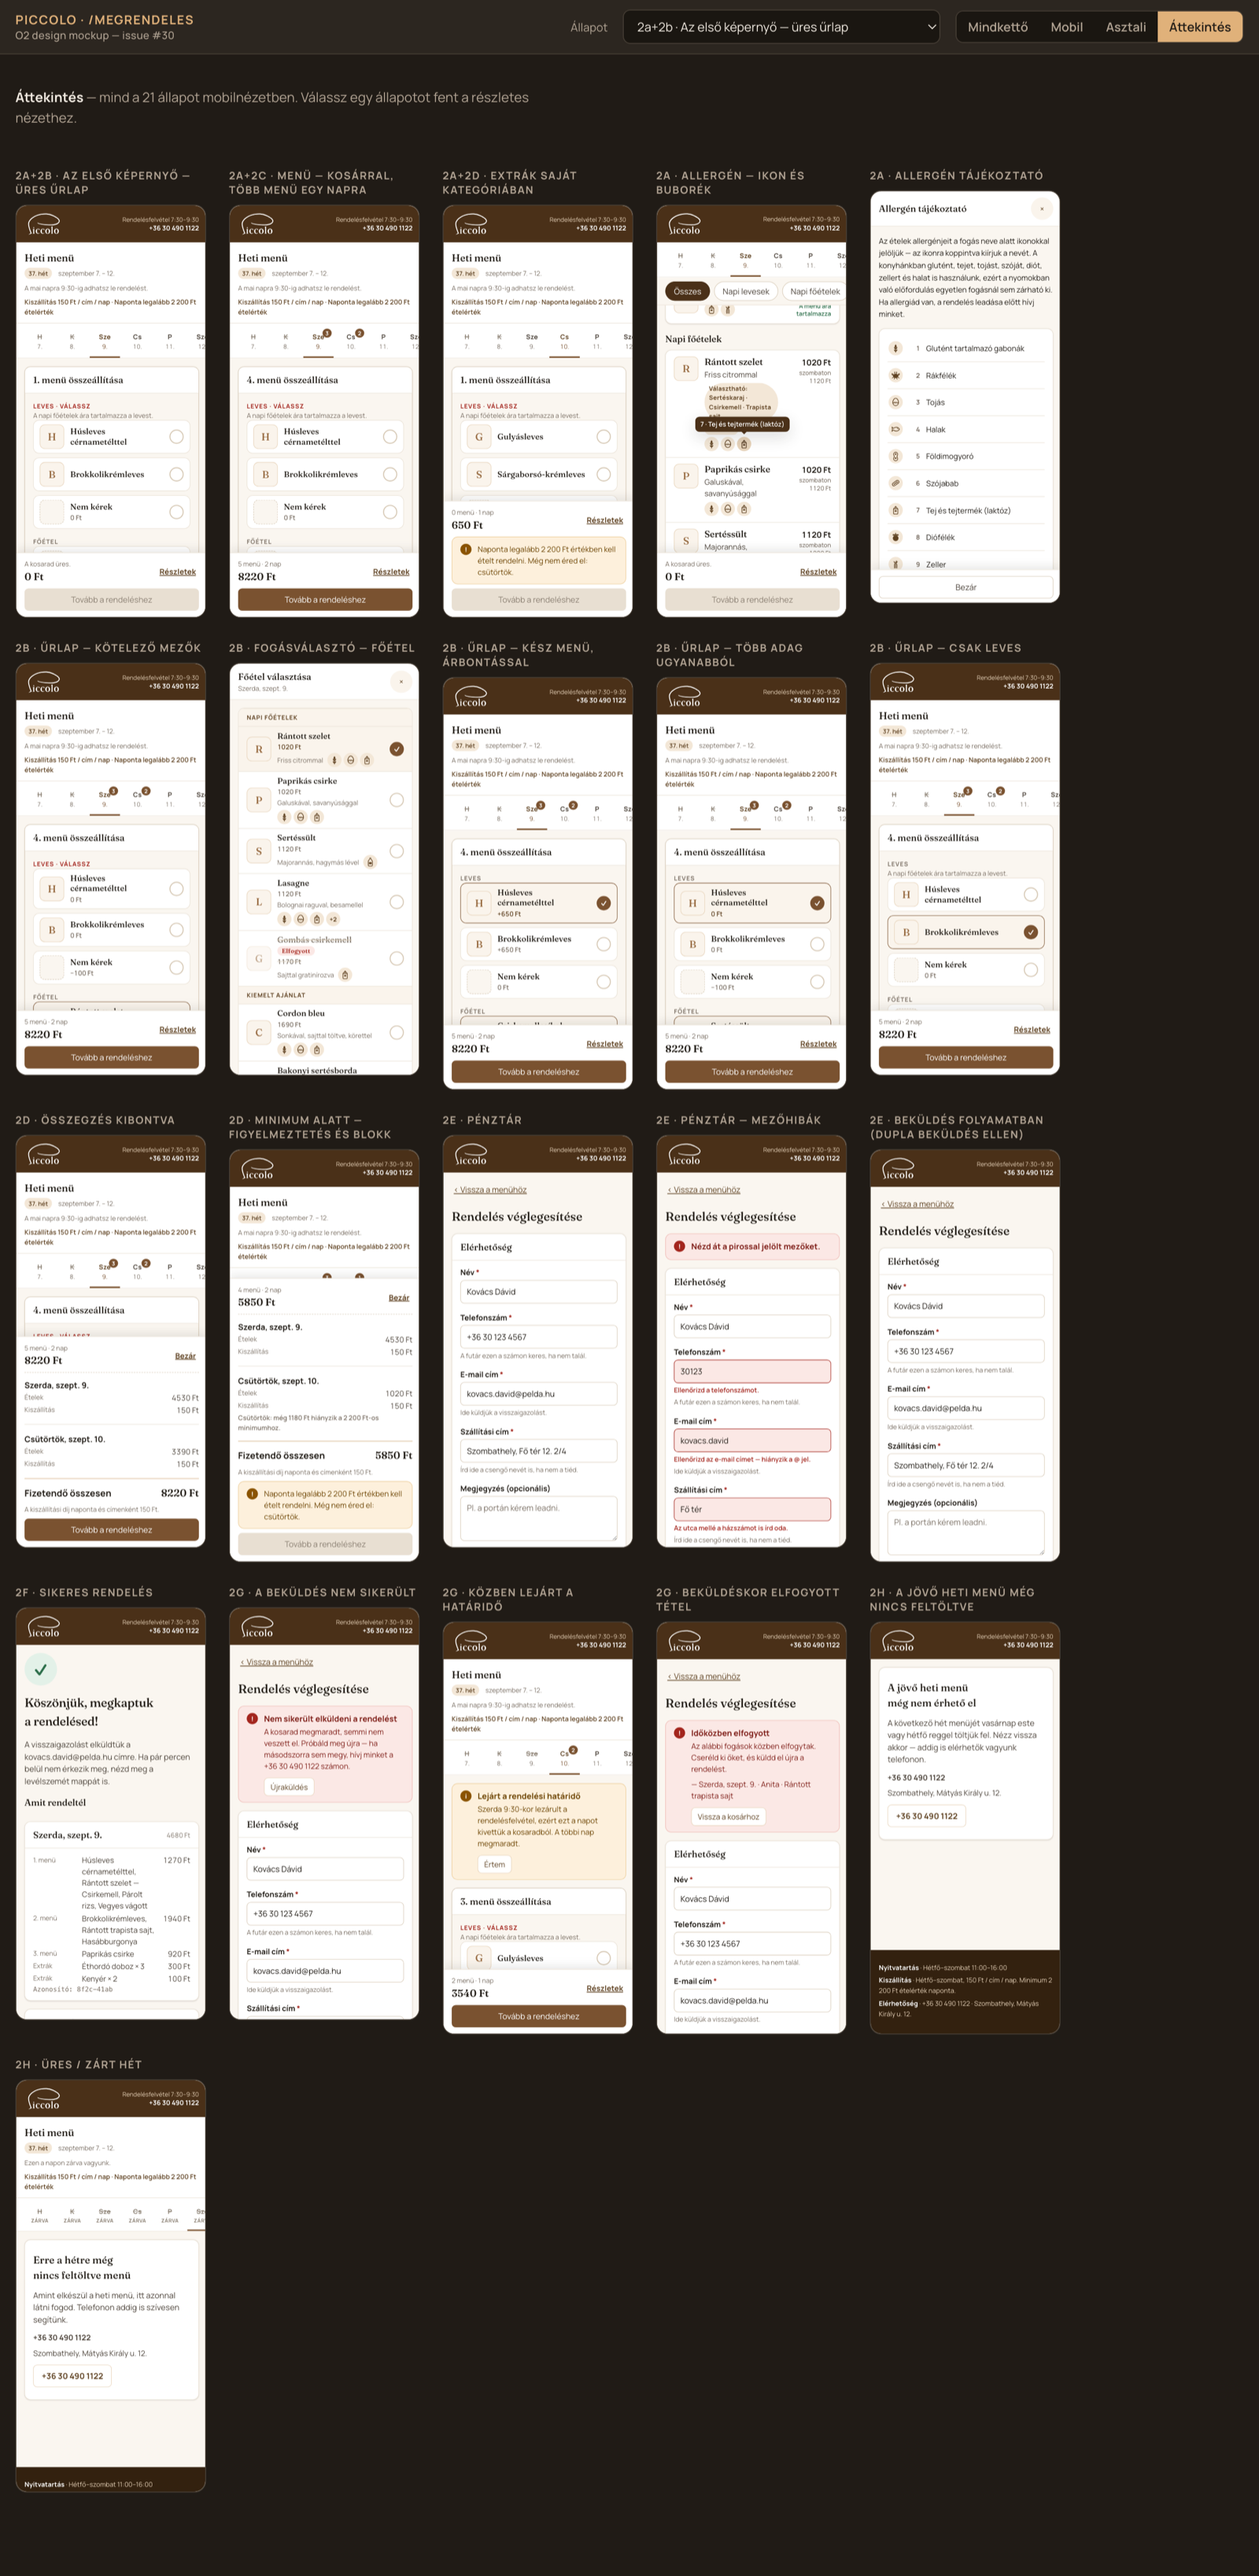
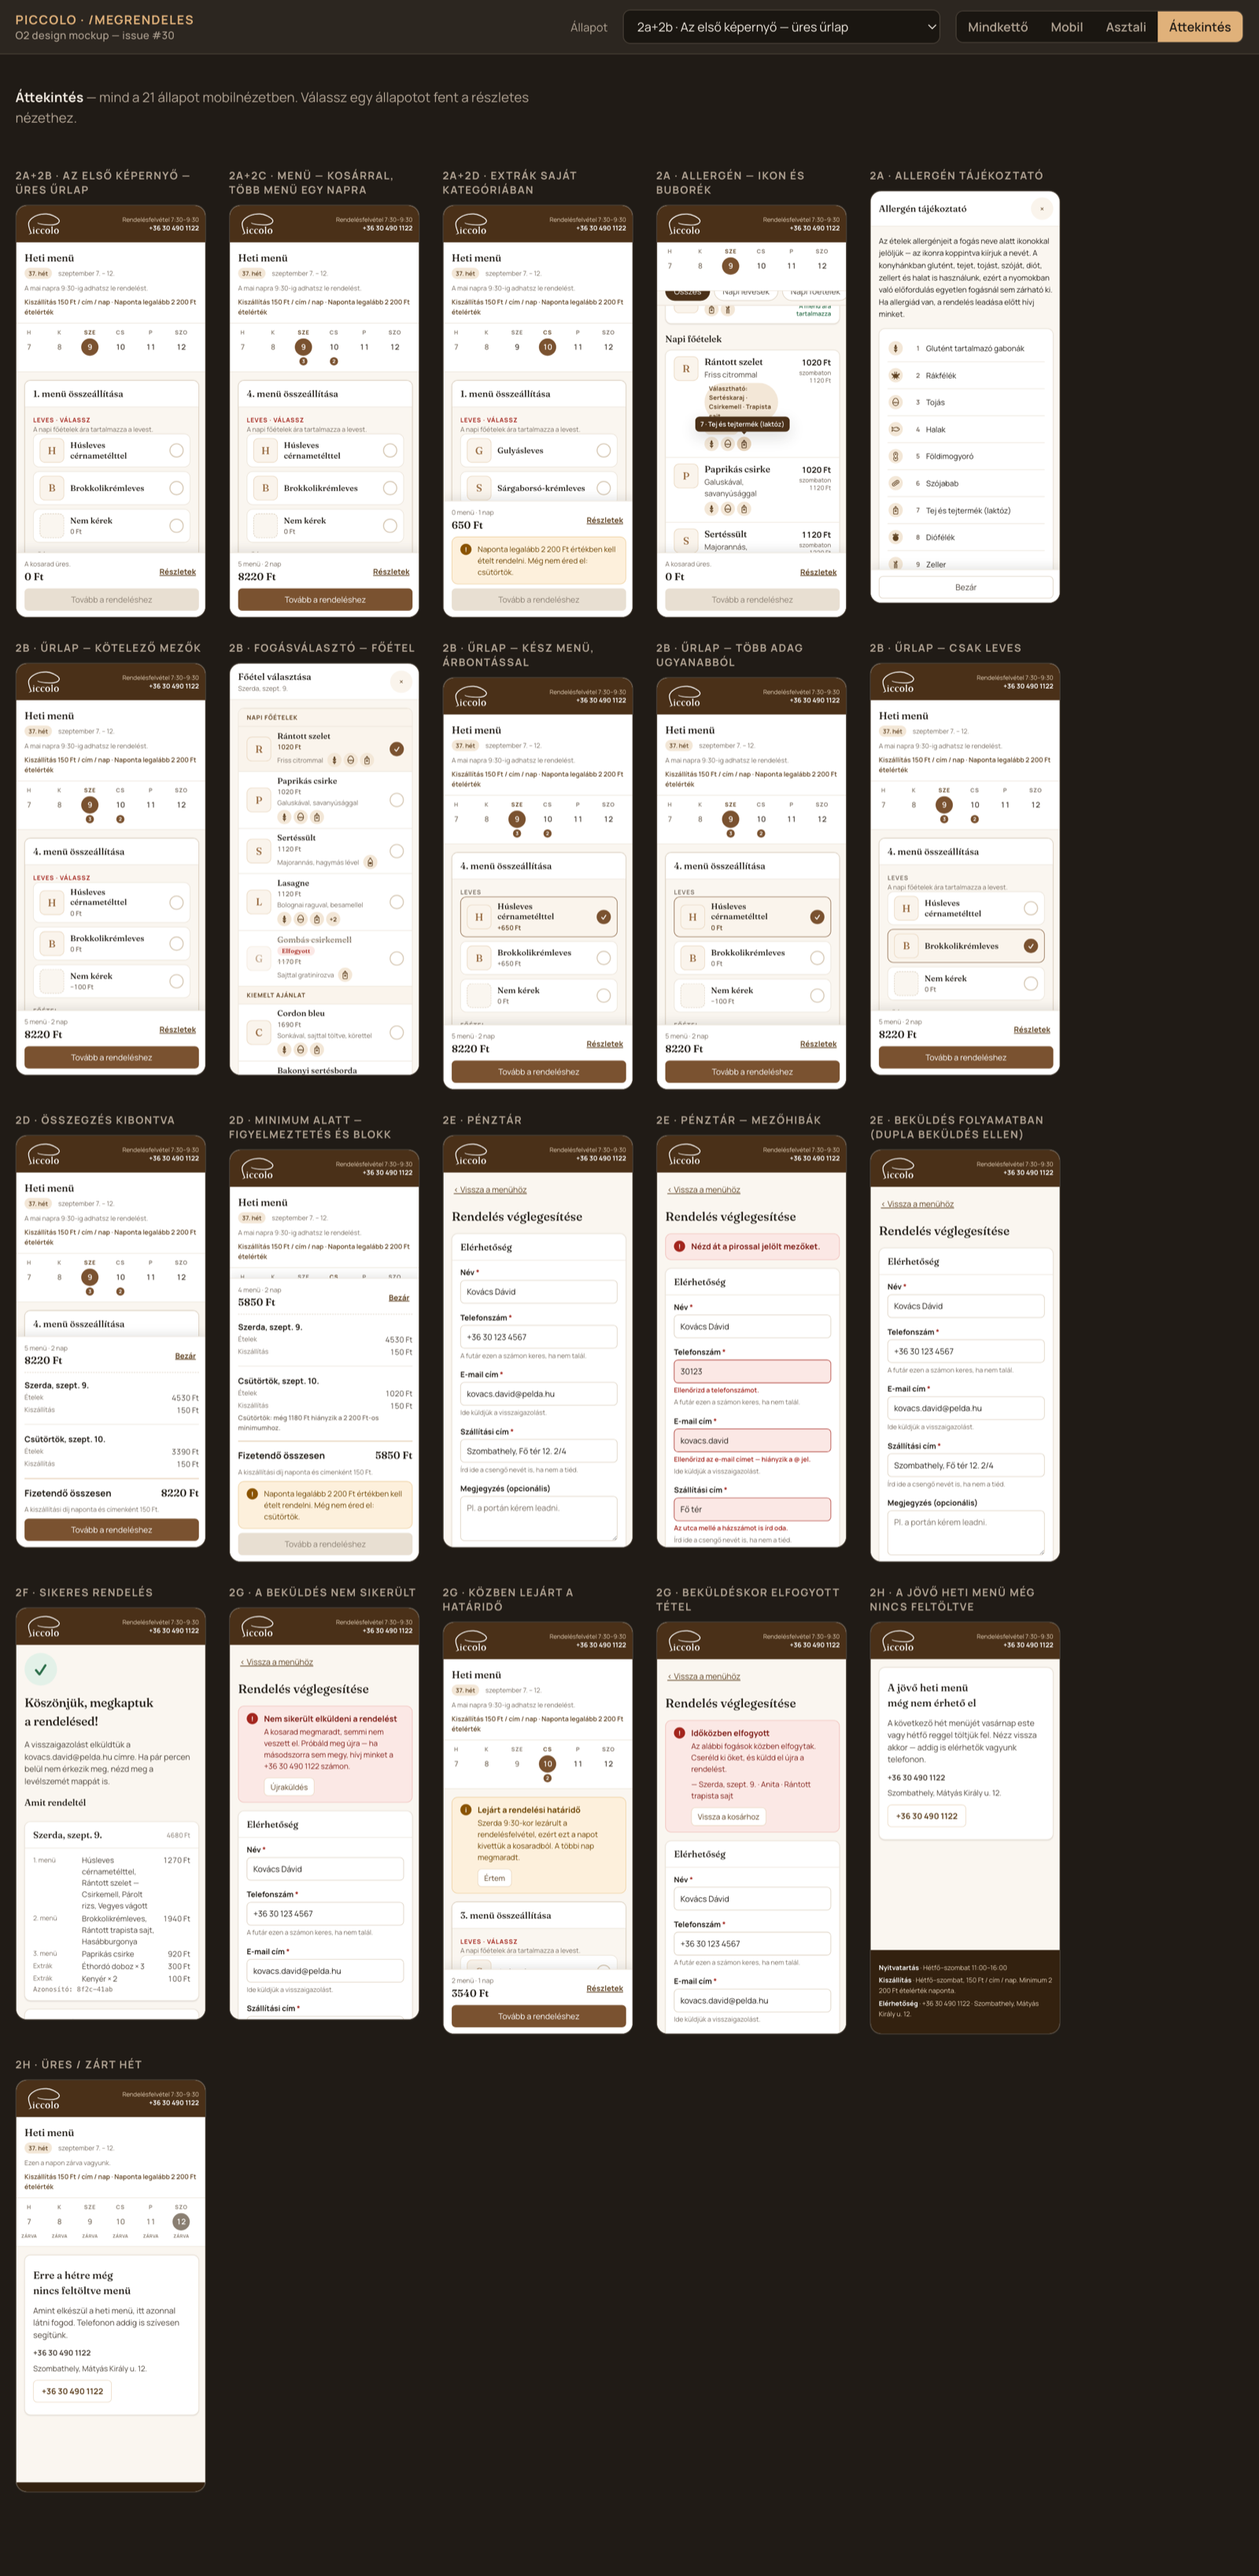
O2: the week strip fits the phone, iOS-calendar style
It was a flex row of 60 px minimum-width tabs with padding — about 530 px of
content in a 375 px viewport, so Saturday sat half off the right edge. On a
mobile-first page that is the worst thing the strip can do: it hides the very
days the guest is choosing between, and a clipped last day reads as a rendering
fault rather than an invitation to swipe.

Six days now divide the width as an even grid, no scrolling, 53 px a column even
on a 320 px phone. The shape follows the iOS calendar header: weekday caps, the
date in a circle, a mark below. The circle replaces the underline — same "you
are here" signal, less vertical space — and it gives the closed state somewhere
to live: an ink circle rather than brand, so the day you are looking at is
marked without implying you can order on it. The mark slot is always rendered so
the circles share a baseline, and it carries either the cart count or ZÁRVA.

Desktop keeps the same shape at 84 px columns, left-aligned, rather than
stretching six tabs across 1280 px.

diff --git a/docs/design/megrendeles/mockup.html b/docs/design/megrendeles/mockup.html
@@ -346,80 +346,96 @@
         font-weight: 600;
         font-size: var(--t-xs);
       }
+      /* The week strip reads like the iOS calendar header: weekday caps, the date in
+         a circle, an event mark below. Six days divide the width evenly, so nothing
+         scrolls and nothing is cut off at the right edge — a strip you have to swipe
+         hides the very days you are deciding between. */
       .daybar {
         position: sticky;
         top: 72px;
         z-index: 5;
         background: var(--paper);
         border-bottom: 1px solid var(--line);
-        overflow-x: auto;
-        scrollbar-width: none;
-      }
-      .daybar::-webkit-scrollbar {
-        display: none;
       }
       .daybar ul {
-        display: flex;
-        gap: var(--s-1);
-        padding: var(--s-2) var(--s-4) 0;
-        min-width: max-content;
+        display: grid;
+        grid-template-columns: repeat(var(--daycols, 6), minmax(0, 1fr));
+        padding: var(--s-2);
       }
       .day {
-        position: relative;
-        min-width: 60px;
-        min-height: var(--tap);
-        padding: var(--s-2) var(--s-3) 10px;
-        border: 0;
-        background: none;
-        border-bottom: 3px solid transparent;
-        color: var(--ink-700);
         display: flex;
         flex-direction: column;
         align-items: center;
-        gap: 1px;
-        border-radius: var(--radius-sm) var(--radius-sm) 0 0;
+        gap: 3px;
+        min-height: var(--tap);
+        padding: 2px 0 4px;
+        border: 0;
+        background: none;
+        color: var(--ink-700);
+        border-radius: var(--radius-sm);
       }
       .day .dow {
-        font-size: var(--t-sm);
+        font-size: 11px;
         font-weight: 700;
-        letter-spacing: 0.02em;
-      }
-      .day .dnum {
-        font-size: var(--t-xs);
+        letter-spacing: 0.06em;
+        text-transform: uppercase;
         color: var(--ink-500);
       }
-      .day[aria-selected='true'] {
-        color: var(--brand-700);
-        border-bottom-color: var(--brand-600);
+      .day .dnum {
+        width: 34px;
+        height: 34px;
+        border-radius: 50%;
+        display: grid;
+        place-items: center;
+        font-size: var(--t-md);
+        font-weight: 600;
+        line-height: 1;
+      }
+      /* The mark slot is always present, badge or not, so the circles stay on one
+         baseline across the week. */
+      .day .dmark {
+        display: grid;
+        place-items: center;
+        min-height: 16px;
       }
       .day[aria-selected='true'] .dnum {
-        color: var(--brand-600);
+        background: var(--brand-600);
+        color: #fff;
+      }
+      .day[aria-selected='true'] .dow {
+        color: var(--brand-700);
+      }
+      button.day:not([aria-selected='true']):not([disabled]):hover .dnum {
+        background: var(--brand-50);
       }
       .day[disabled] {
-        color: var(--ink-400);
         cursor: not-allowed;
       }
-      .day[disabled] .dow {
-        text-decoration: line-through;
-        text-decoration-thickness: 1px;
+      /* A closed day you are looking at still gets its circle — it says "you are
+         here" — but in ink, not brand, so it does not promise you can order. */
+      .day[disabled][aria-selected='true'] .dnum {
+        background: var(--ink-400);
+        color: #fff;
+      }
+      .day[disabled] .dow,
+      .day[disabled] .dnum {
+        color: var(--ink-400);
       }
       .day .dbadge {
-        position: absolute;
-        top: 2px;
-        right: 4px;
-        min-width: 18px;
-        height: 18px;
-        padding: 0 5px;
+        display: grid;
+        place-items: center;
+        min-width: 16px;
+        height: 16px;
+        padding: 0 4px;
         border-radius: 999px;
         background: var(--brand-600);
         color: #fff;
-        font-size: 11px;
+        font-size: 10px;
         font-weight: 700;
-        line-height: 18px;
-        text-align: center;
+        line-height: 1;
       }
       .day .dclosed {
-        font-size: 10px;
+        font-size: 9px;
         font-weight: 700;
         letter-spacing: 0.04em;
         text-transform: uppercase;
@@ -1827,17 +1843,14 @@
           padding: 0 var(--s-8);
         }
         .daybar ul {
+          grid-template-columns: repeat(var(--daycols, 6), 84px);
+          justify-content: start;
           padding-inline: 0;
-          gap: var(--s-2);
         }
-        .day {
-          min-width: 104px;
-          flex-direction: row;
-          gap: var(--s-2);
-          align-items: baseline;
-        }
-        .day .dbadge {
-          position: static;
+        .day .dnum {
+          width: 40px;
+          height: 40px;
+          font-size: var(--t-lg);
         }
         .screen {
           display: grid;
@@ -2779,17 +2792,24 @@
               : '') +
             '><span class="dow">' +
             esc(dayShort(d.date)) +
-            '</span>' +
-            (state === 'closed'
-              ? '<span class="dclosed">' + esc(S.days.closed) + '</span>'
-              : '<span class="dnum num">' + esc(dateNum(d.date)) + '.</span>') +
+            '</span><span class="dnum num">' +
+            esc(dateNum(d.date)) +
+            '</span><span class="dmark">' +
             (n
               ? '<span class="dbadge num" title="' + esc(S.days.badgeTitle(n)) + '">' + n + '</span>'
-              : '') +
-            '</button></li>'
+              : state === 'closed'
+                ? '<span class="dclosed">' + esc(S.days.closed) + '</span>'
+                : '') +
+            '</span></button></li>'
           );
         }).join('');
-        return '<nav class="daybar"><ul role="tablist">' + items + '</ul></nav>';
+        return (
+          '<nav class="daybar"><ul role="tablist" style="--daycols: ' +
+          DAYS.length +
+          '">' +
+          items +
+          '</ul></nav>'
+        );
       }
 
       function Banner(b) {

diff --git a/docs/design/megrendeles/README.md b/docs/design/megrendeles/README.md
@@ -110,7 +110,7 @@ What O6/O7 need to build, in the order they appear:
 |---|---|
 | `Masthead` | logo, intake window, tap-to-call number |
 | `WeekBar` | week number pill, date range, cutoff sentence |
-| `DayRail` | six tabs; disabled for past days and holidays; cart-count badge; horizontally scrollable |
+| `DayRail` | the week strip, built like the iOS calendar header: weekday caps, the date in a circle, a mark below. Six equal columns fill the width — no horizontal scrolling. Filled brand circle for the selected day, ink circle when that day is closed, cart-count badge or `ZÁRVA` in the mark slot |
 | `Banner` | info / warn / danger / ok; title, body, optional list, optional action |
 | `ChipRail` | sticky category chips that jump to a section |
 | `DishList` + `Dish` | tile, name, description, price (with the Saturday price when it differs), allergen chips, tags (`Elfogyott`, `Választható`, `Körettel`); the whole row is the tap target |
@@ -226,6 +226,21 @@ Two consequences worth knowing. A guest ordering **soup alone** does not see its
 price box below totals it — acceptable, because the price box is on the same screen and itemises it.
 And the soup is the one block whose rows can lack an amount, which is a deliberate asymmetry, not an
 oversight: `choiceRows` omits the element entirely rather than rendering an empty one.
+
+### The week strip does not scroll
+
+Six days divide the width evenly, so every day is on screen at once — on a 320 px phone that is
+still 53 px a column. The old strip was a flex row of 60 px minimum-width tabs with padding, which
+came to roughly 530 px and pushed Saturday off the right edge. A strip you have to swipe hides the
+very days you are deciding between, and a half-visible last day reads as a rendering fault rather
+than an invitation to scroll.
+
+The shape is the iOS calendar header: weekday letters in small caps, the date in a circle below, and
+a mark under that. The circle replaces the old underline — it is the same "you are here" signal in
+less vertical space, and it gives the closed state somewhere to live (ink circle instead of brand,
+so a day you are looking at is marked without promising you can order on it). The mark slot is
+always rendered, badge or not, so the circles sit on one baseline across the week. The date loses
+its Hungarian trailing dot inside the circle, as it does in every calendar grid.
 
 **All seven side options stack; the block does not scroll on its own.** The sheet body already
 scrolls, and a scroller nested inside it is the gesture people lose on a phone — you swipe to reach
